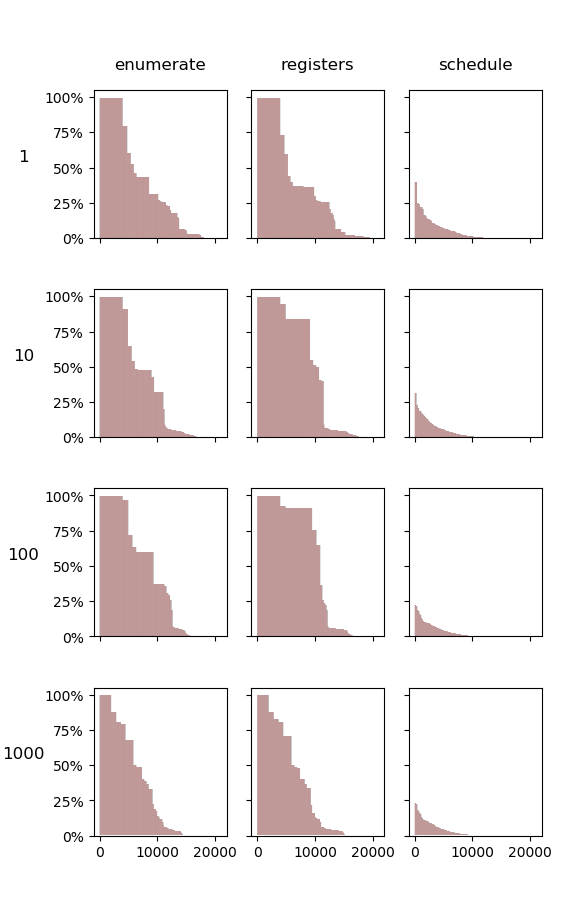
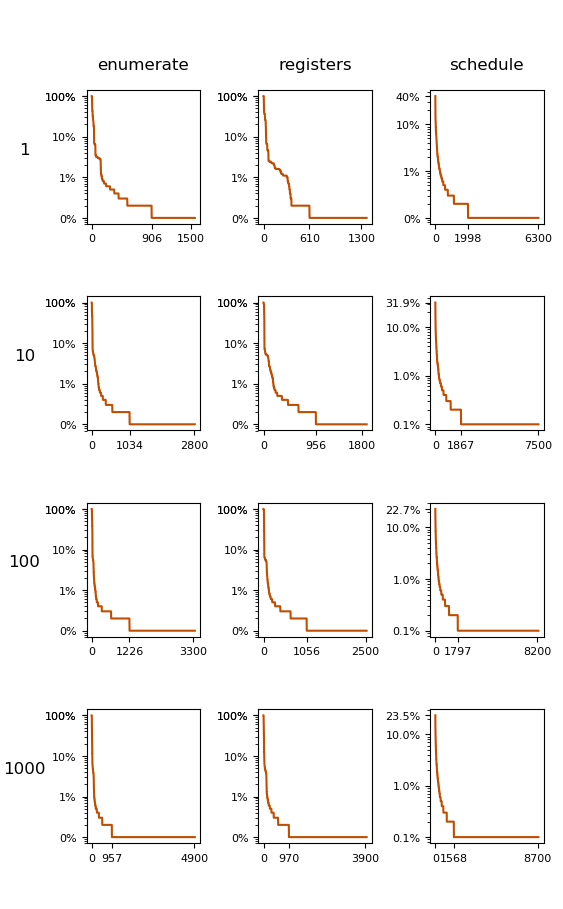
Update figures for result

diff --git a/results/result.tex b/results/result.tex
@@ -30,41 +30,37 @@ heuristic for the schedule strategy.
 
 \section{Cost}
 
-The estimated cost of each program is shown in Figure \ref{fig:cost}. The dotted red line
-shows the cost of the LLVM solution when calculated in the same manner.
+\begin{figure}[h]
+	\centering
+	\includegraphics[width=\textwidth,height=0.5\textheight]{results/figures/cost_speed}
+	\caption{The cost (speed) distributions for every strategy and sampling rate. The cost of the LLVM solution is included for reference.}
+	\label{fig:cost-speed}
+\end{figure}
 
 \begin{figure}[h]
 	\centering
-	\includegraphics[width=\textwidth,height=0.5\textheight]{results/figures/cost}
-	\caption{The cost distributions for every strategy and sampling rate. The cost of the LLVM solution is included for reference.}
-	\label{fig:cost}
+	\includegraphics[width=\textwidth,height=0.5\textheight]{results/figures/cost_size}
+	\caption{The code size distributions for every strategy and sampling rate. The cost of the LLVM solution is included for reference.}
+	\label{fig:cost-size}
 \end{figure}
 
-All strategies perform better for lower sampling rates. As described in section
-\ref{sec:performance}, this is expected. Enumerate and registers perform equally well and
-for sampling sizes of 1 and 10 they have a lower cost than the LLVM solution. The schedule
-strategy seems to incur a slight overhead compared to the LLVM solution for all sampling
-rates.
+Figure \ref{fig:cost-speed} and Figure \ref{fig:cost-size} shows the distributions of the
+estimated cost in cycles and the code size respectively. Both the cost in cycles and the
+code size for a program version is calculated as the geometric mean between the cost or
+code size of the functions.
 
-\begin{table}[h]
-		\centering
-		\noindent\makebox[\textwidth]{%
-			\input{results/figures/sched_perf}
-		}
-		\caption{The cost of the different sampling rates for the schedule strategy compared to the LLVM solution.%
-		The difference column is the difference between the median cost of the sampling rate and the cost of the LLVM solution.}
-		\label{table:sched_cost}
-\end{table}
+All strategies perform better for lower sampling rates both in terms of speed and in terms
+of code size. As described in section \ref{sec:performance}, this is expected. Both the
+enumerate and registers strategy performs very well in terms compared to the LLVM solution
+in terms of speed. The schedule strategy incurs a slight overhead for the lowest sampling
+rate and a significant overhead for the three higher sampling rates.
 
-Table \ref{table:sched_cost} shows the cost difference between the different sampling
-rates for the schedule strategy compared to the cost of the LLVM program. The overhead of
-the schedule strategy is negligible (note that the overhead column shows per mille). All
-sampling rates have versions with a lower cost than the LLVM solution so if only a few
-versions are necessary there is potential to limit the constraint solver to only find
-those with lower cost than LLVM.
+The fact that no solution has a size lower than the LLVM solution can be explained by
+refering to the optimization goal used, which was speed. The code size has not been taken
+into account during branching and no attempt has been made to optimize it.
 
 Interesting to note is that all strategies and sampling rates have found a solution with
-an equally low cost. This is presumably the very first solution found; When no strategy
+an equally low speed. This is presumably the very first solution found; When no strategy
 related constraints have been posted yet. Thanks to the search heuristic, where lower cost
 solutions are explored first, this is also the optimal cost.
 
@@ -118,10 +114,14 @@ variables than the 4 explored in this experiment, all of which offers potential 
 diversity.
 
 By exploring lower cost solutions first and applying tiny, incremental changes between
-solutions the resulting code is relatively performant. There is also an opportunity to
-add constraints to the model that steers this cost in some direction. By not randomizing
-we have full control of the process and can limit the resulting code in whatever way is
-appropriate.
+solutions the performance of the resulting code is widely distributed but also relatively
+good. Only the highest sampling rates for the schedule strategy incurs a significant
+overhead. There is also an opportunity to add constraints to the model that steers this
+cost in some direction. As mentioned briefly in Section \ref{sec:performance} we could
+limit our executable to have a smaller cost than the LLVM solution, or to only incur an
+overhead of e.g 5\% compared to the LLVM solution if we want more versions. By not
+randomizing we have full control of the process and can limit the resulting code in
+whatever way is appropriate.
 
 For a more proper comparison of the systematic approach tests would have to be repeated
 targeting the x86-64 architecture. As mentioned in Section \ref{sec:arch} Unison in its
